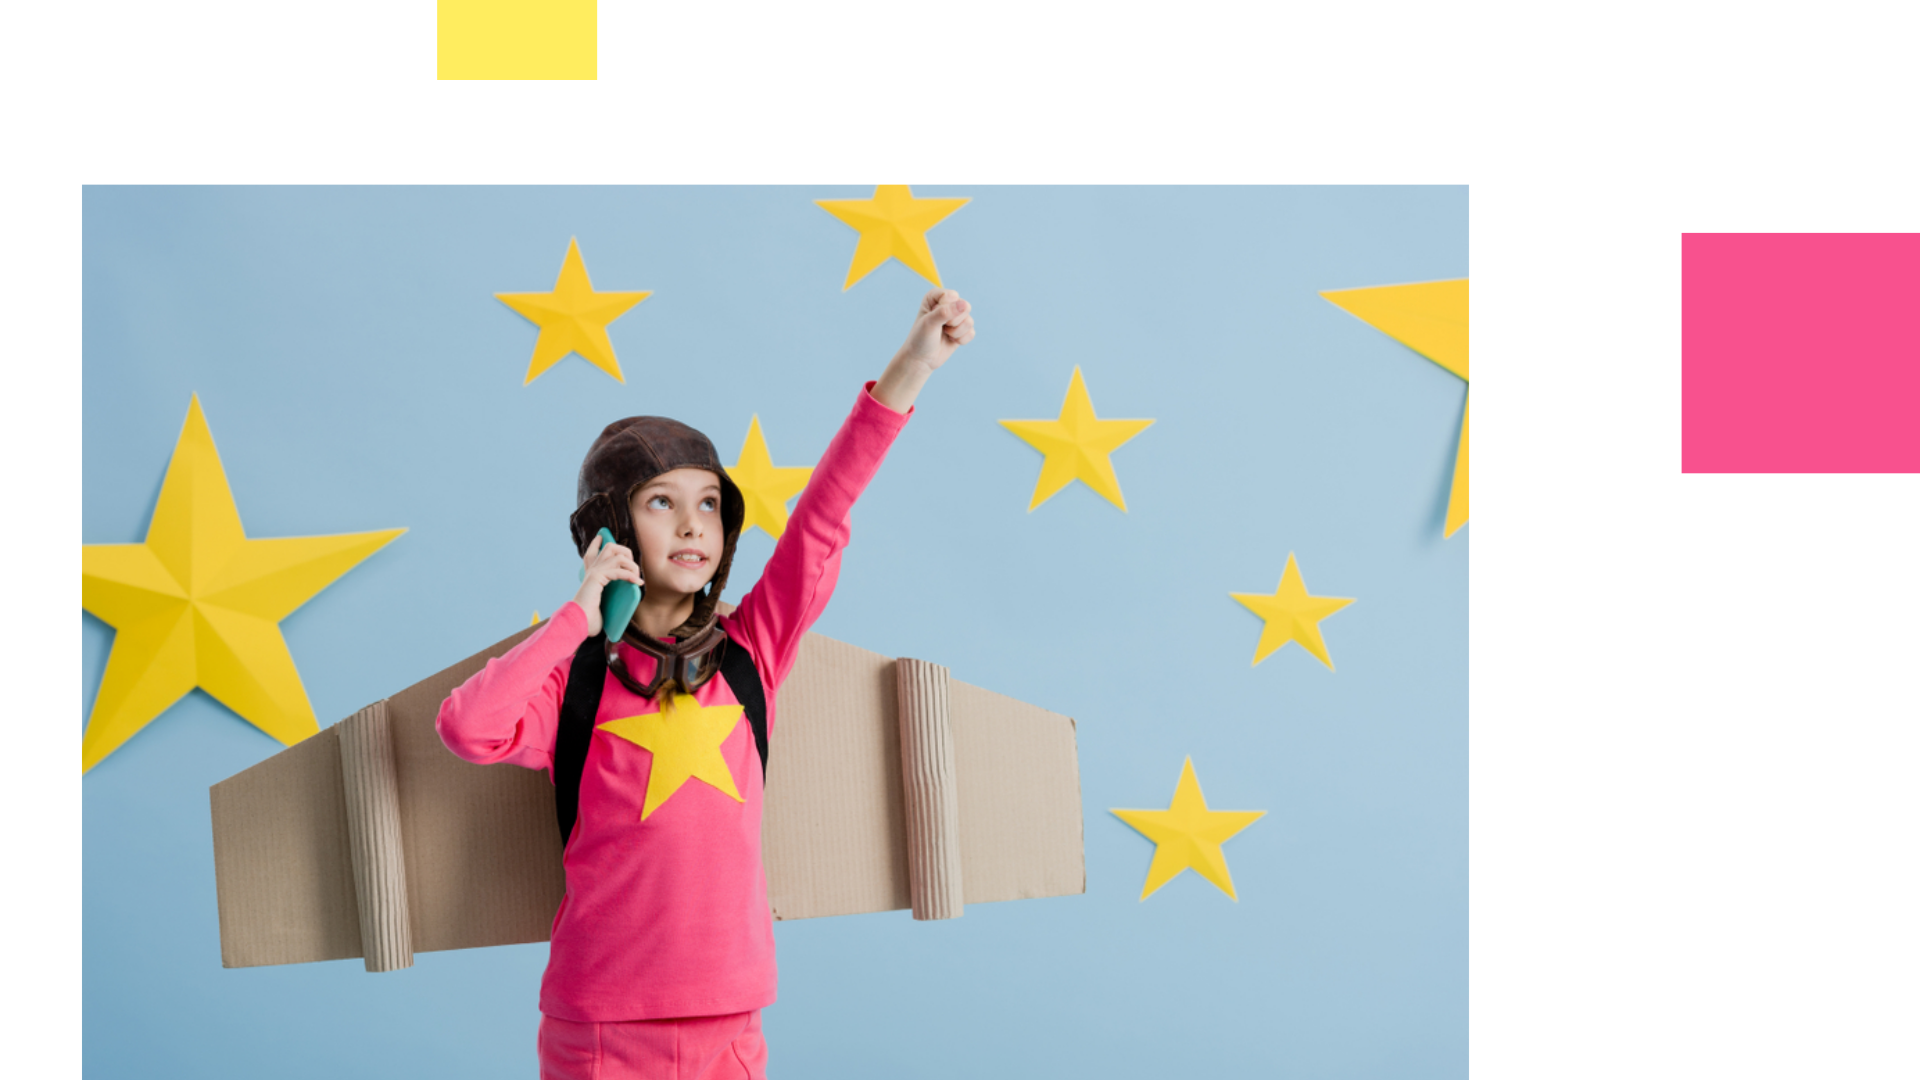
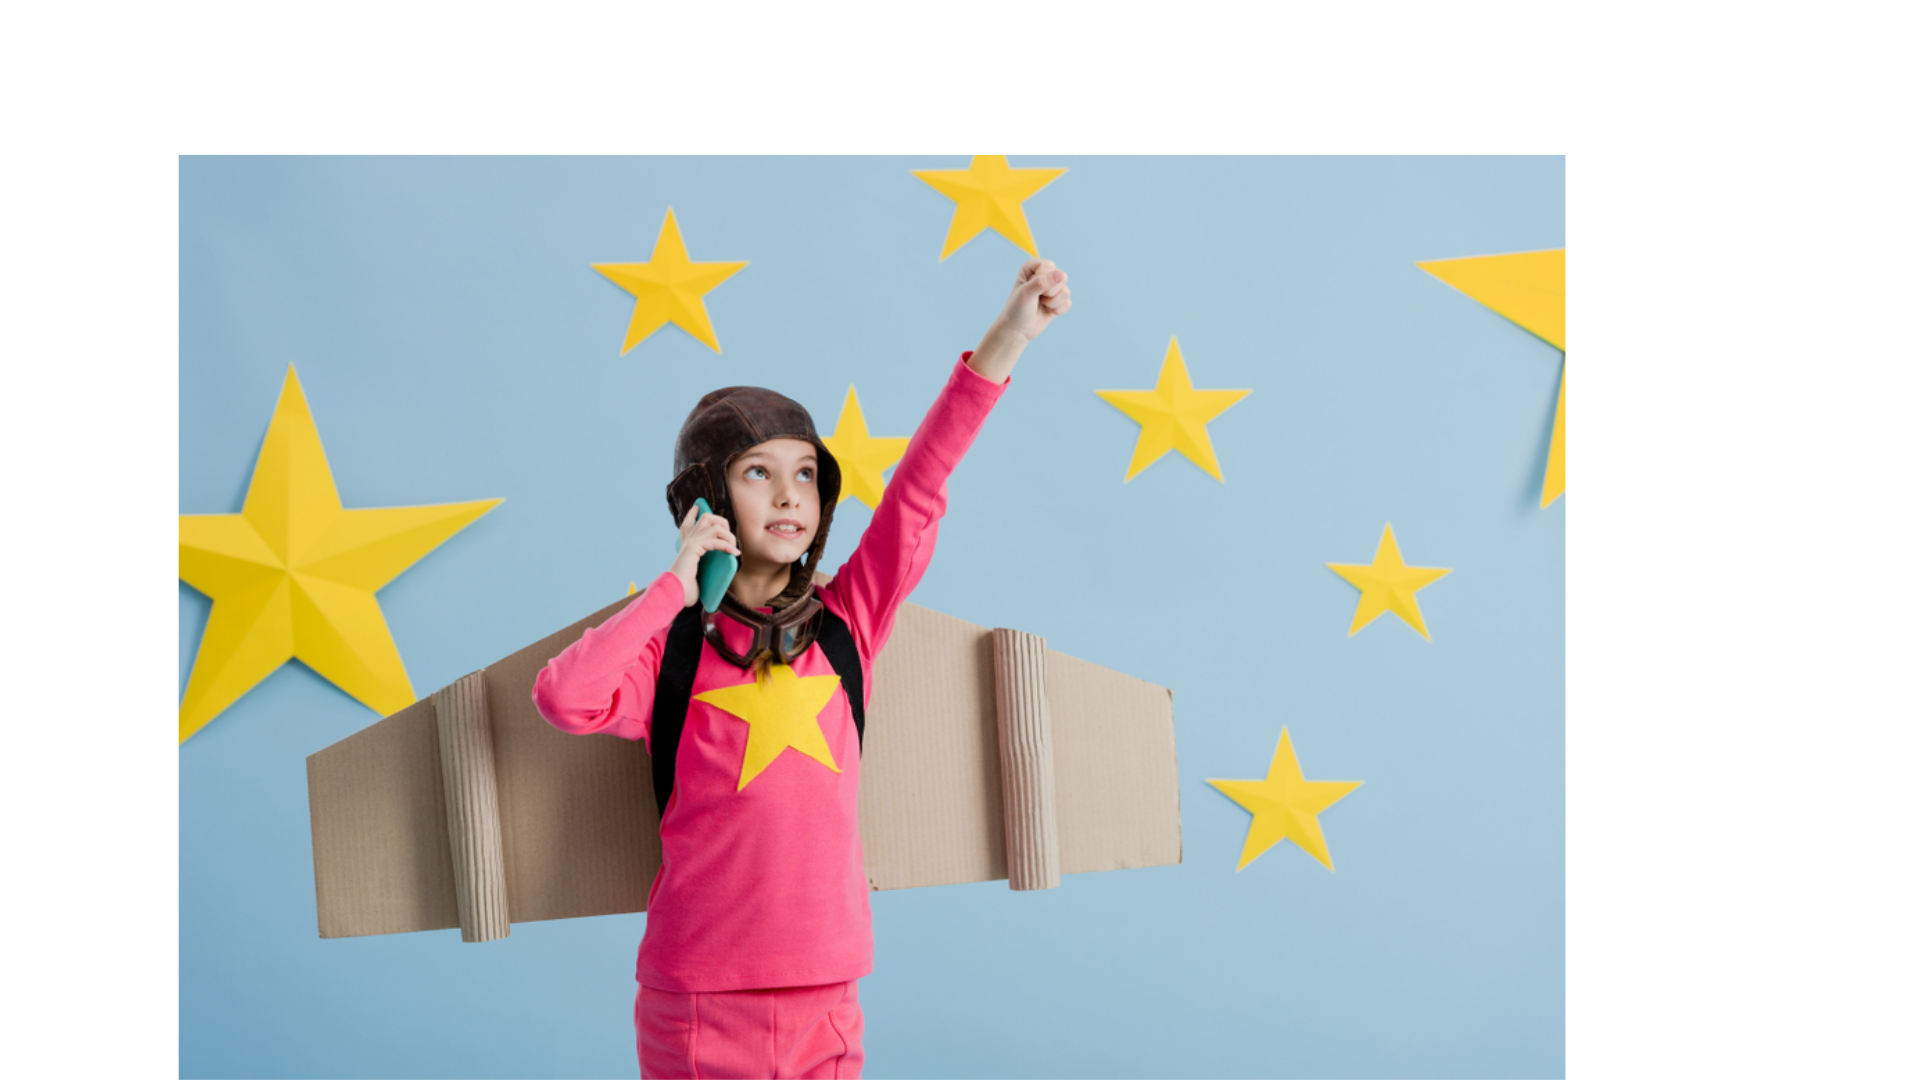
improved carousel images

diff --git a/css/landscape.css b/css/landscape.css
@@ -140,7 +140,7 @@
     height: 100%;
     background-position: top;
     background-repeat: no-repeat;
-    background-size: 100% auto;
+    background-size: cover;
   }
   .txtCrslFrm {
     width: 40%;

diff --git a/css/portrait.css b/css/portrait.css
@@ -134,7 +134,7 @@
     height: 100%;
     background-position: top;
     background-repeat: no-repeat;
-    background-size: 100% auto;
+    background-size: cover;
   }
   .txtCrslFrm {
     width: 40%;
